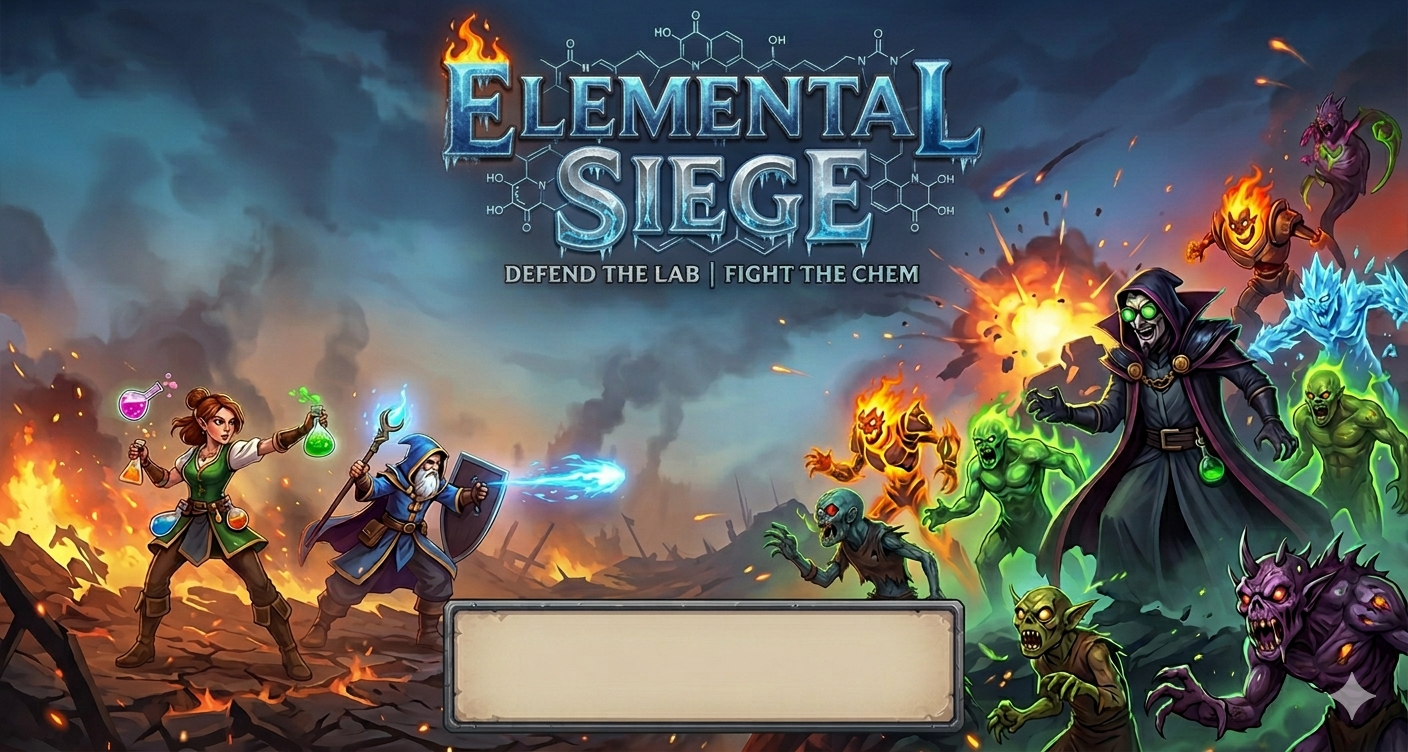
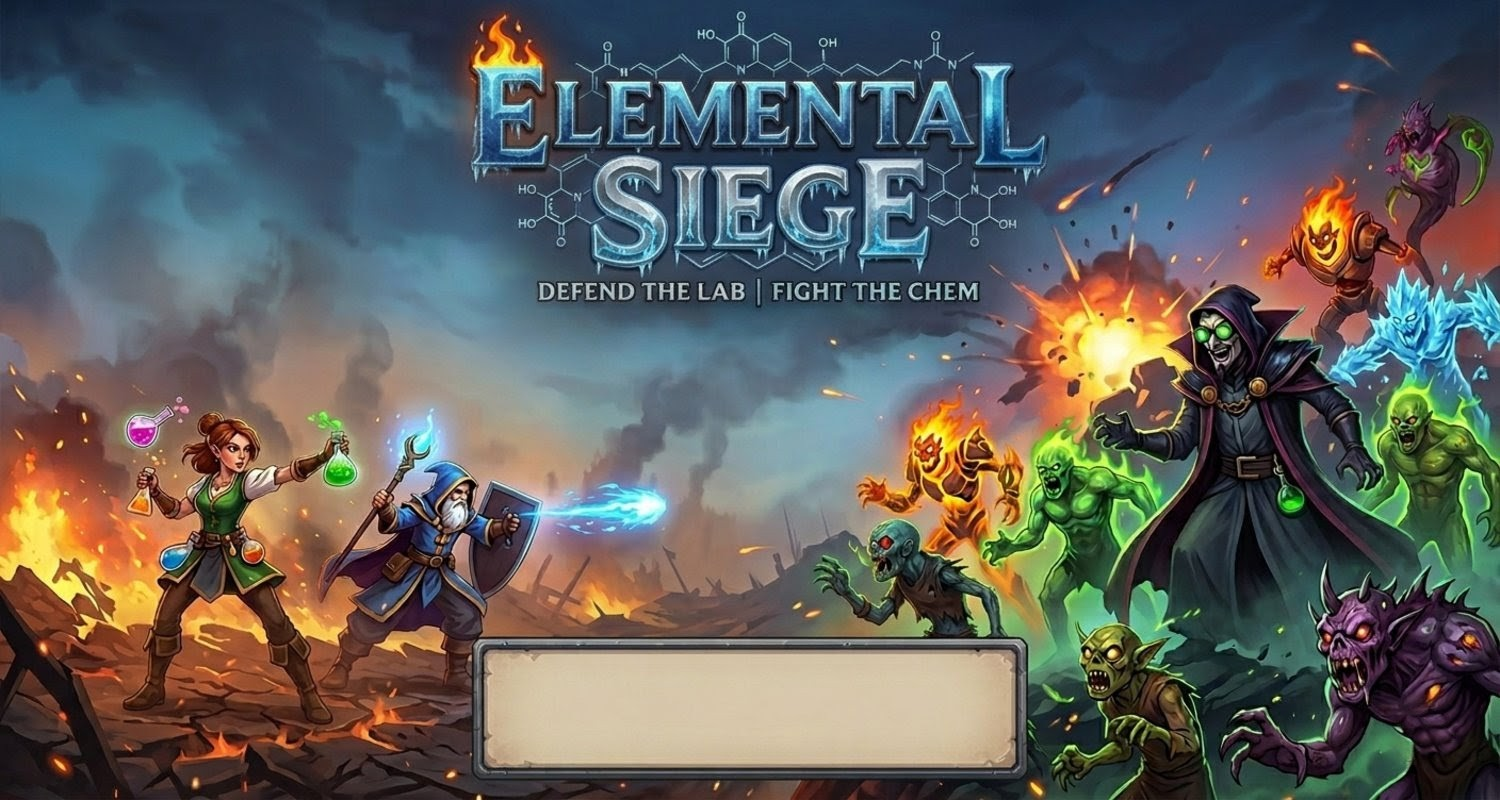
Refactor code structure for improved readability and maintainability

diff --git a/TitlePage.java b/TitlePage.java
@@ -13,29 +13,28 @@ public class TitlePage extends JPanel implements ActionListener
 	{
 		data = pageMngr.getGameData();
 		pm = pageMngr;
+		getBackgroundImage(); //need to input image  
 		setLayout(null);
-		picture = null;
 		StartButtons();
 	}
 
 	public void paintComponent(Graphics g)
 	{
 		super.paintComponent(g);
-		getMyImage(); //need to input image  
 		g.drawImage(picture, 0, 0, getWidth(),getHeight(),this);
 	}
-
-	public void getMyImage()
+	public void getBackgroundImage()
 	{
-		String picName = "storedData/images/HomeScreenBackground.png";
+		picture = null;
+		String pictName = "storedData/images/HomeScreenBackground.png";
+
 		try
 		{
-			picture = ImageIO.read(new File(picName));
+			picture = ImageIO.read(new File(pictName));
 		}
-
 		catch(IOException e)
 		{
-			System.err.println("\n\n" + picName + " can't be found. \n\n");
+			System.err.println("\n\n" + pictName + " can't be found. \n\n");
 			e.printStackTrace();        
 		}
 	}
@@ -45,31 +44,17 @@ public class TitlePage extends JPanel implements ActionListener
 		JButton signIn;
 		JButton signUp;
 
-		signIn = new JButton("Continue");
-		signUp = new JButton("New Game");
+		signIn = pm.new Button1("Continue", new Color(21,49,94));
+		signUp = pm.new Button1("New Game", new Color(23,55,23));
 
-		signIn.setBackground(Color.WHITE);
-		signUp.setBackground(Color.WHITE);
-		signIn.setFont(pm.titleFont);
-		signUp.setFont(pm.titleFont);
-		signIn.setForeground(new Color(21,49,94));
-		signUp.setForeground(new Color(23,55,23));
-		signUp.setFocusPainted(false);
-		signIn.setFocusPainted(false);
-		signIn.setOpaque(false);
-		signUp.setOpaque(false);
-		signUp.setBorderPainted(false);
-		signIn.setBorderPainted(false);
-		signIn.setBounds(525, 685, 200, 50);
-		signUp.setBounds(770, 685, 200, 50);
-		signUp.setCursor(new Cursor(Cursor.HAND_CURSOR));
-		signIn.setCursor(new Cursor(Cursor.HAND_CURSOR));
+		signIn.setBounds(525, 682, 200, 50);
+		signUp.setBounds(770, 682, 200, 50);
 
 		add(signUp);
 		add(signIn);
 
-		signIn.addMouseListener(pm.buttonHoverEffect(signIn, new Color(34, 139, 34), signIn.getForeground()));
-		signUp.addMouseListener(pm.buttonHoverEffect(signUp, new Color(34, 139, 34), signUp.getForeground()));
+		signIn.addMouseListener(pm.buttonHoverEffect(signIn, Color.LIGHT_GRAY, signIn.getForeground()));
+		signUp.addMouseListener(pm.buttonHoverEffect(signUp, Color.GRAY, signUp.getForeground()));
 
 		signIn.addActionListener(this);
 		signUp.addActionListener(this);

diff --git a/PageManager.java b/PageManager.java
@@ -48,6 +48,7 @@ public class PageManager extends JPanel
 		private Color normalBackgroundColor;
 		private Color hoverForegroundColor;
 		private Color normalForegroundColor;
+		private boolean normalOpacity;
 		private JButton button;
 
 		public FormatOnHover(JButton btn, Color bgColor, Color fgColor)
@@ -55,6 +56,7 @@ public class PageManager extends JPanel
 			button = btn;
 			normalBackgroundColor = button.getBackground();
 			normalForegroundColor = button.getForeground();
+			normalOpacity = button.isOpaque();
 			hoverBackgroundColor = bgColor;
 			hoverForegroundColor = fgColor;
 		}
@@ -76,7 +78,55 @@ public class PageManager extends JPanel
 		{
 			button.setBackground(normalBackgroundColor);
 			button.setForeground(normalForegroundColor);
-			button.setOpaque(false);
+			button.setOpaque(normalOpacity);
 		}
+	}
+
+	public class Button1 extends JButton
+	{
+		private Color fgColor;
+		private boolean isOpaque;
+		private boolean isBorderPainted;
+
+		public Button1(String btnName, Color foregroundColor, boolean isTransparentBg)
+		{
+			super(btnName);
+			fgColor = foregroundColor;
+			isOpaque = !isTransparentBg;
+			if(isTransparentBg) 
+				isBorderPainted=false;
+			else
+				isBorderPainted=true;
+			makeButton();
+		}
+
+		public Button1(String btnName, Color foregroundColor)
+		{
+			super(btnName);
+			fgColor = foregroundColor;
+			isOpaque = false;
+			isBorderPainted = false;
+			makeButton();
+		}
+
+		public Button1(String btnName)
+		{
+			super(btnName);
+			fgColor = Color.BLACK;
+			isOpaque = false;
+			isBorderPainted = false;
+			makeButton();
+		}
+
+		public void makeButton()
+		{
+			setBackground(Color.WHITE);
+			setFont(titleFont);
+			setForeground(fgColor);
+			setFocusPainted(false);
+			setOpaque(isOpaque);
+			setBorderPainted(isBorderPainted);
+			setCursor(new Cursor(Cursor.HAND_CURSOR));
+		} 
 	}
 }

diff --git a/ElementalSiege.java b/ElementalSiege.java
@@ -4,20 +4,24 @@
 import java.awt.Color;
 import javax.swing.JFrame;
 
-public class ElementalSiege 
+public class ElementalSiege extends JFrame 
 {
-	private PageManager pageCards;
+	private PageManager pm;
 
-	public static void main(String[] args)
+    public ElementalSiege() 
 	{
-		JFrame frame = new JFrame("Elemental Siege");
+        super("Elemental Siege");
+        setSize(1500, 800);
+        setLocation(10, 0);
+        setDefaultCloseOperation(JFrame.EXIT_ON_CLOSE);
+        setResizable(false);
+		pm = new PageManager();
+        setContentPane(pm);
+        setVisible(true);
+    }
 
-		frame.setSize(1500, 800);
-		frame.setLocation(10, 0);
-		frame.setDefaultCloseOperation(JFrame.EXIT_ON_CLOSE);
-		frame.setResizable(false);
-		frame.setBackground(Color.GRAY);
-		frame.setContentPane(new PageManager());
-		frame.setVisible(true);
-	}
+    public static void main(String[] args) 
+	{
+        ElementalSiege es = new ElementalSiege();
+    }
 }
